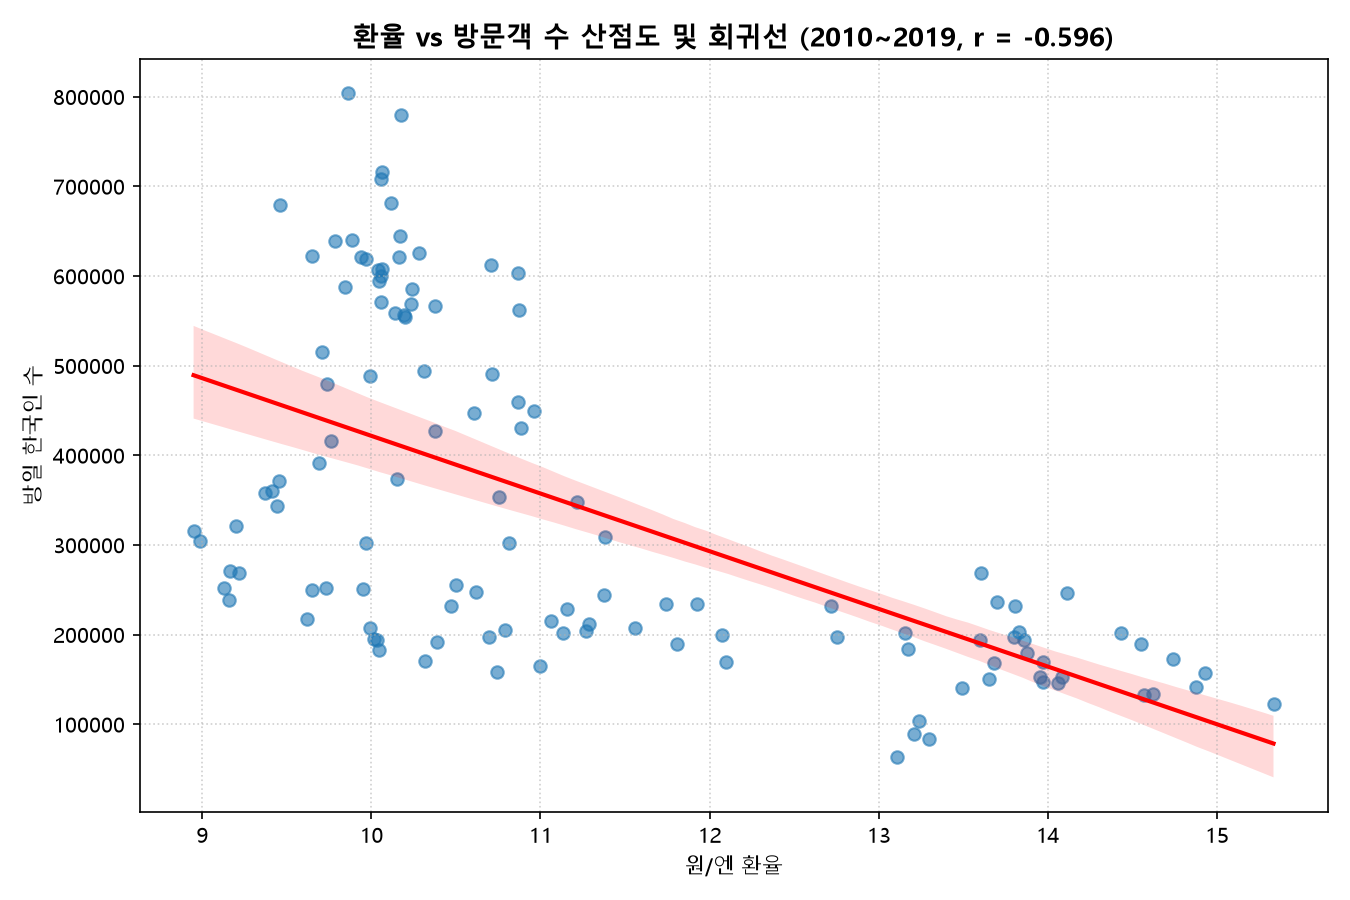
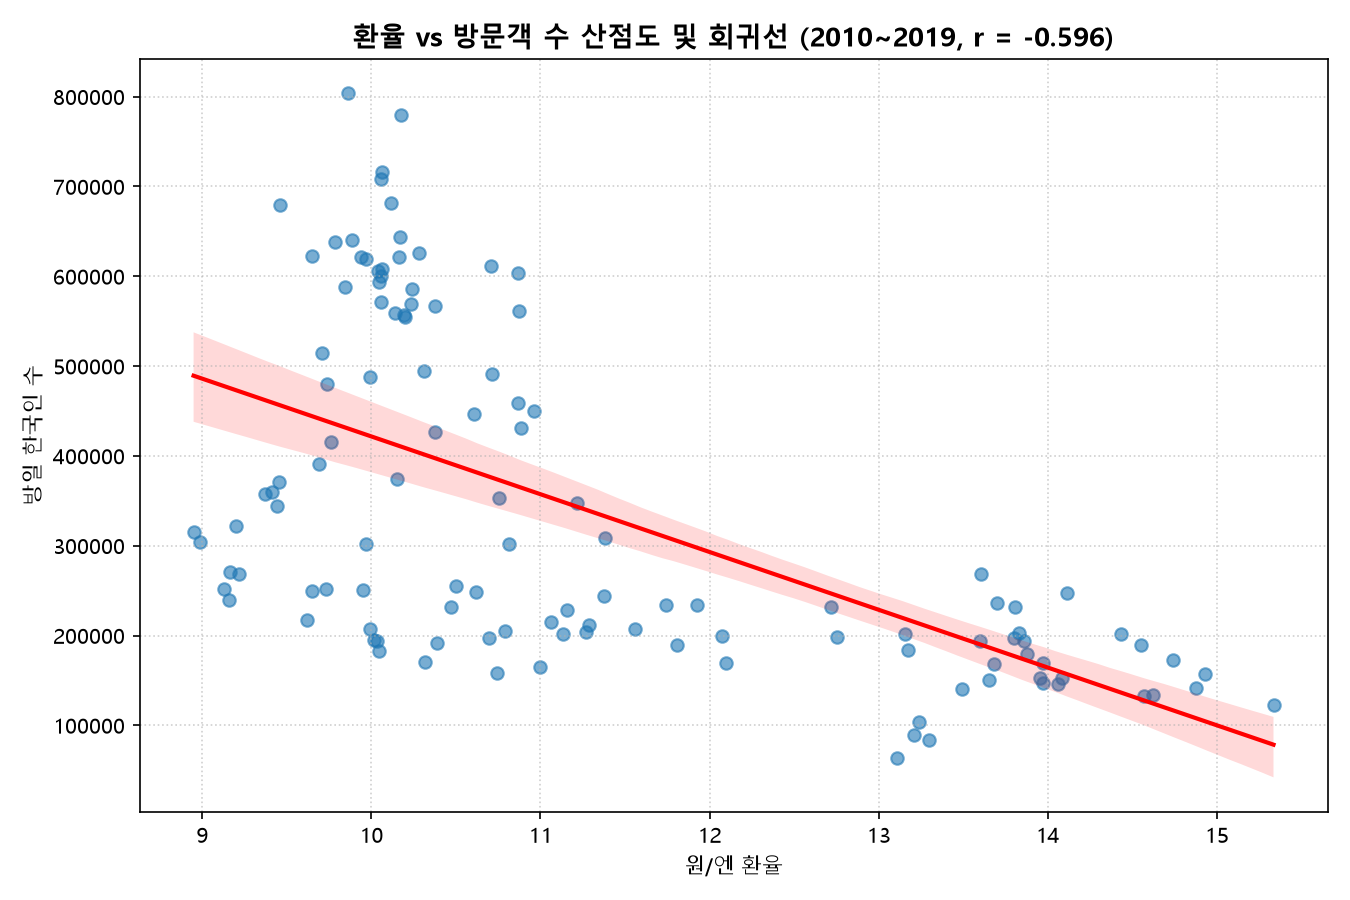
style: 시계열 분해도(인사이트 3) 고품질 커스텀 4단 서브플롯 리디자인 및 analysis.ipynb 복원

diff --git a/run_analysis.py b/run_analysis.py
@@ -17,6 +17,7 @@ import pandas as pd
 import numpy as np
 import scipy.stats as stats
 import matplotlib.pyplot as plt
+import matplotlib.ticker as ticker
 import seaborn as sns
 import statsmodels.api as sm
 import statsmodels.formula.api as smf
@@ -157,11 +158,71 @@ plt.tight_layout()
 plt.savefig(os.path.join(IMAGES_DIR, '02_scatter_correlation.png'), dpi=150)
 plt.close()
 
-# 차트 3: 시계열 분해도
-fig = decomp.plot()
-fig.set_size_inches(12, 8)
-plt.suptitle('방일 한국인 여행객 수 시계열 분해 (2014~2019 가법 모델)', fontsize=15, fontweight='bold', y=0.97)
-fig.tight_layout(rect=[0, 0, 1, 0.95])
+# 차트 3: 고품질 시계열 분해도
+pct_tr = (var_tr / var_tot) * 100
+pct_se = (var_sea / var_tot) * 100
+pct_re = (var_res / var_tot) * 100
+
+fig, axes = plt.subplots(4, 1, figsize=(13, 10), sharex=True)
+
+# 1. 관측치 (Observed)
+ax1 = axes[0]
+ax1.plot(decomp.observed.index, decomp.observed.values, color='#0f4c81', linewidth=2, label='실제 방문객 수')
+ax1.fill_between(decomp.observed.index, decomp.observed.values, color='#0f4c81', alpha=0.1)
+ax1.set_ylabel('방문객 수 (명)', fontsize=10, fontweight='bold', color='#0f4c81')
+ax1.set_title('① 관측치 (Observed Visitors) - 원계열 데이터 (2014~2019 정상기)', fontsize=11, fontweight='bold', loc='left', pad=6)
+ax1.yaxis.set_major_formatter(ticker.FuncFormatter(lambda x, p: f'{int(x):,}'))
+ax1.grid(True, linestyle=':', alpha=0.6)
+ax1.text(0.98, 0.85, '원 데이터 (추세+계절성+잔차 결합)', transform=ax1.transAxes, ha='right', fontsize=9,
+         bbox=dict(boxstyle='round,pad=0.3', facecolor='#f0f4f8', edgecolor='#0f4c81', alpha=0.8))
+
+# 2. 추세 성분 (Trend)
+ax2 = axes[1]
+ax2.plot(decomp.trend.index, decomp.trend.values, color='#1b9e77', linewidth=2.5, label='장기 추세')
+ax2.set_ylabel('추세 성분 (명)', fontsize=10, fontweight='bold', color='#1b9e77')
+ax2.set_title(f'② 추세 성분 (Long-term Trend)  |  [분산 기여율: {pct_tr:.1f}%]', fontsize=11, fontweight='bold', loc='left', pad=6)
+ax2.yaxis.set_major_formatter(ticker.FuncFormatter(lambda x, p: f'{int(x):,}'))
+ax2.grid(True, linestyle=':', alpha=0.6)
+ax2.text(0.98, 0.85, f'장기 성장 견인 (기여율 {pct_tr:.1f}%)', transform=ax2.transAxes, ha='right', fontsize=9,
+         bbox=dict(boxstyle='round,pad=0.3', facecolor='#e8f5e9', edgecolor='#1b9e77', alpha=0.8))
+
+# 3. 계절성 성분 (Seasonal)
+ax3 = axes[2]
+ax3.plot(decomp.seasonal.index, decomp.seasonal.values, color='#d95f02', linewidth=2, label='12개월 주기 계절성')
+ax3.axhline(0, color='gray', linestyle='--', linewidth=1, alpha=0.7)
+ax3.fill_between(decomp.seasonal.index, decomp.seasonal.values, 0, where=(decomp.seasonal.values >= 0), color='#d95f02', alpha=0.2, label='성수기 (+) 효과')
+ax3.fill_between(decomp.seasonal.index, decomp.seasonal.values, 0, where=(decomp.seasonal.values < 0), color='#3182bd', alpha=0.15, label='비수기 (-) 효과')
+ax3.set_ylabel('계절 변동치 (명)', fontsize=10, fontweight='bold', color='#d95f02')
+ax3.set_title(f'③ 계절성 성분 (12-Month Seasonality)  |  [분산 기여율: {pct_se:.1f}%]', fontsize=11, fontweight='bold', loc='left', pad=6)
+ax3.yaxis.set_major_formatter(ticker.FuncFormatter(lambda x, p: f'{int(x):,}'))
+ax3.grid(True, linestyle=':', alpha=0.6)
+ax3.text(0.98, 0.85, f'매년 1~2월 겨울 피크 & 9월 최비수기 반복 (기여율 {pct_se:.1f}%)', transform=ax3.transAxes, ha='right', fontsize=9,
+         bbox=dict(boxstyle='round,pad=0.3', facecolor='#fff3e0', edgecolor='#d95f02', alpha=0.8))
+
+# 4. 불규칙 잔차 성분 (Residual)
+ax4 = axes[3]
+ax4.scatter(decomp.resid.index, decomp.resid.values, color='#7570b3', alpha=0.7, s=28, label='잔차')
+ax4.axhline(0, color='black', linestyle='-', linewidth=1)
+ax4.set_ylabel('불규칙 잔차 (명)', fontsize=10, fontweight='bold', color='#7570b3')
+ax4.set_title(f'④ 불규칙 잔차 (Irregular Residuals)  |  [분산 기여율: {pct_re:.1f}%]', fontsize=11, fontweight='bold', loc='left', pad=6)
+ax4.yaxis.set_major_formatter(ticker.FuncFormatter(lambda x, p: f'{int(x):,}'))
+ax4.grid(True, linestyle=':', alpha=0.6)
+ax4.text(0.98, 0.85, f'외부 요인 및 일시적 노이즈 (기여율 {pct_re:.1f}%)', transform=ax4.transAxes, ha='right', fontsize=9,
+         bbox=dict(boxstyle='round,pad=0.3', facecolor='#f3e5f5', edgecolor='#7570b3', alpha=0.8))
+
+# X축 포맷
+ax4.set_xlabel('연도 (Date)', fontsize=11, fontweight='bold')
+ax4.xaxis.set_major_locator(plt.matplotlib.dates.YearLocator())
+ax4.xaxis.set_major_formatter(plt.matplotlib.dates.DateFormatter('%Y년'))
+
+# 전체 제목 및 요약 박스
+plt.suptitle('방일 한국인 여행객 수 시계열 분해 (2014~2019 정상기 가법 모델)', fontsize=15, fontweight='bold', y=0.98)
+fig.text(0.5, 0.935,
+         f'■ 총 분산 기여율: 장기 추세(Trend) {pct_tr:.1f}%  |  계절성(Seasonal) {pct_se:.1f}%  |  불규칙 잔차(Residual) {pct_re:.1f}%',
+         ha='center', fontsize=10.5, fontweight='bold',
+         bbox=dict(boxstyle='round,pad=0.4', facecolor='#f8f9fa', edgecolor='#ced4da', lw=1.2))
+
+plt.tight_layout(rect=[0, 0.02, 1, 0.93])
 fig.savefig(os.path.join(IMAGES_DIR, '03_time_series_decomposition.png'), dpi=150, bbox_inches='tight')
 plt.close()
 
